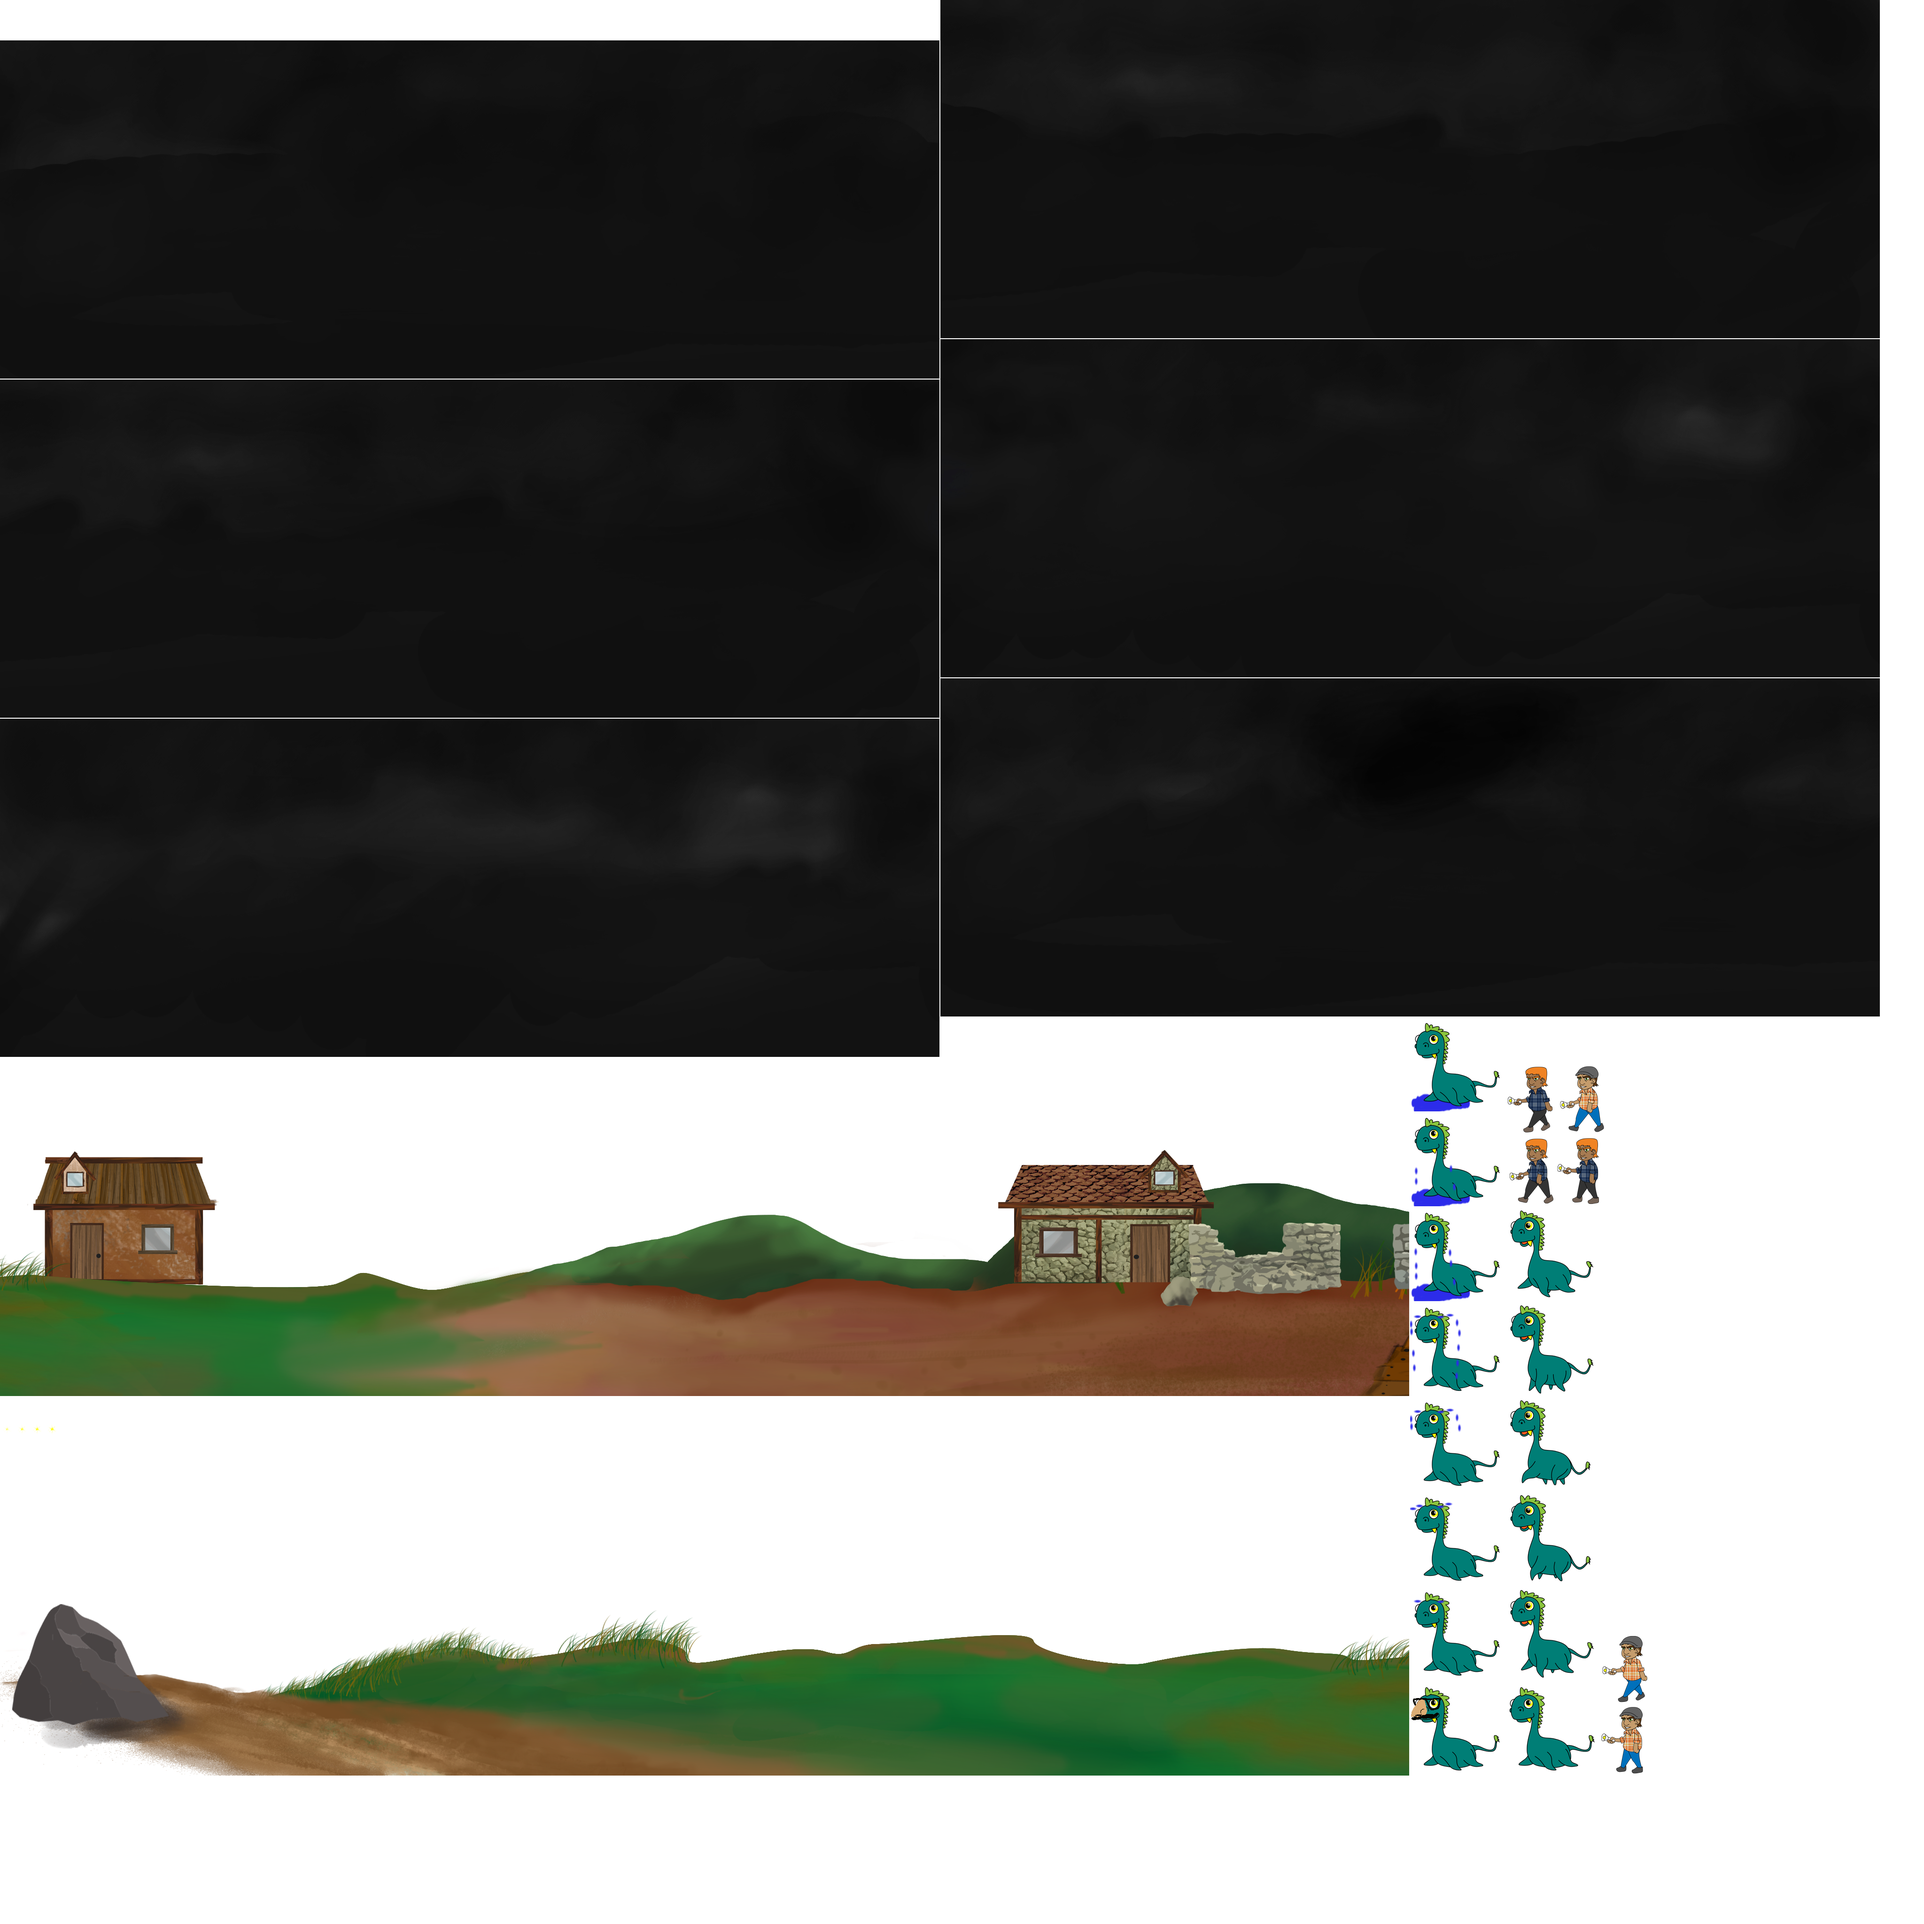
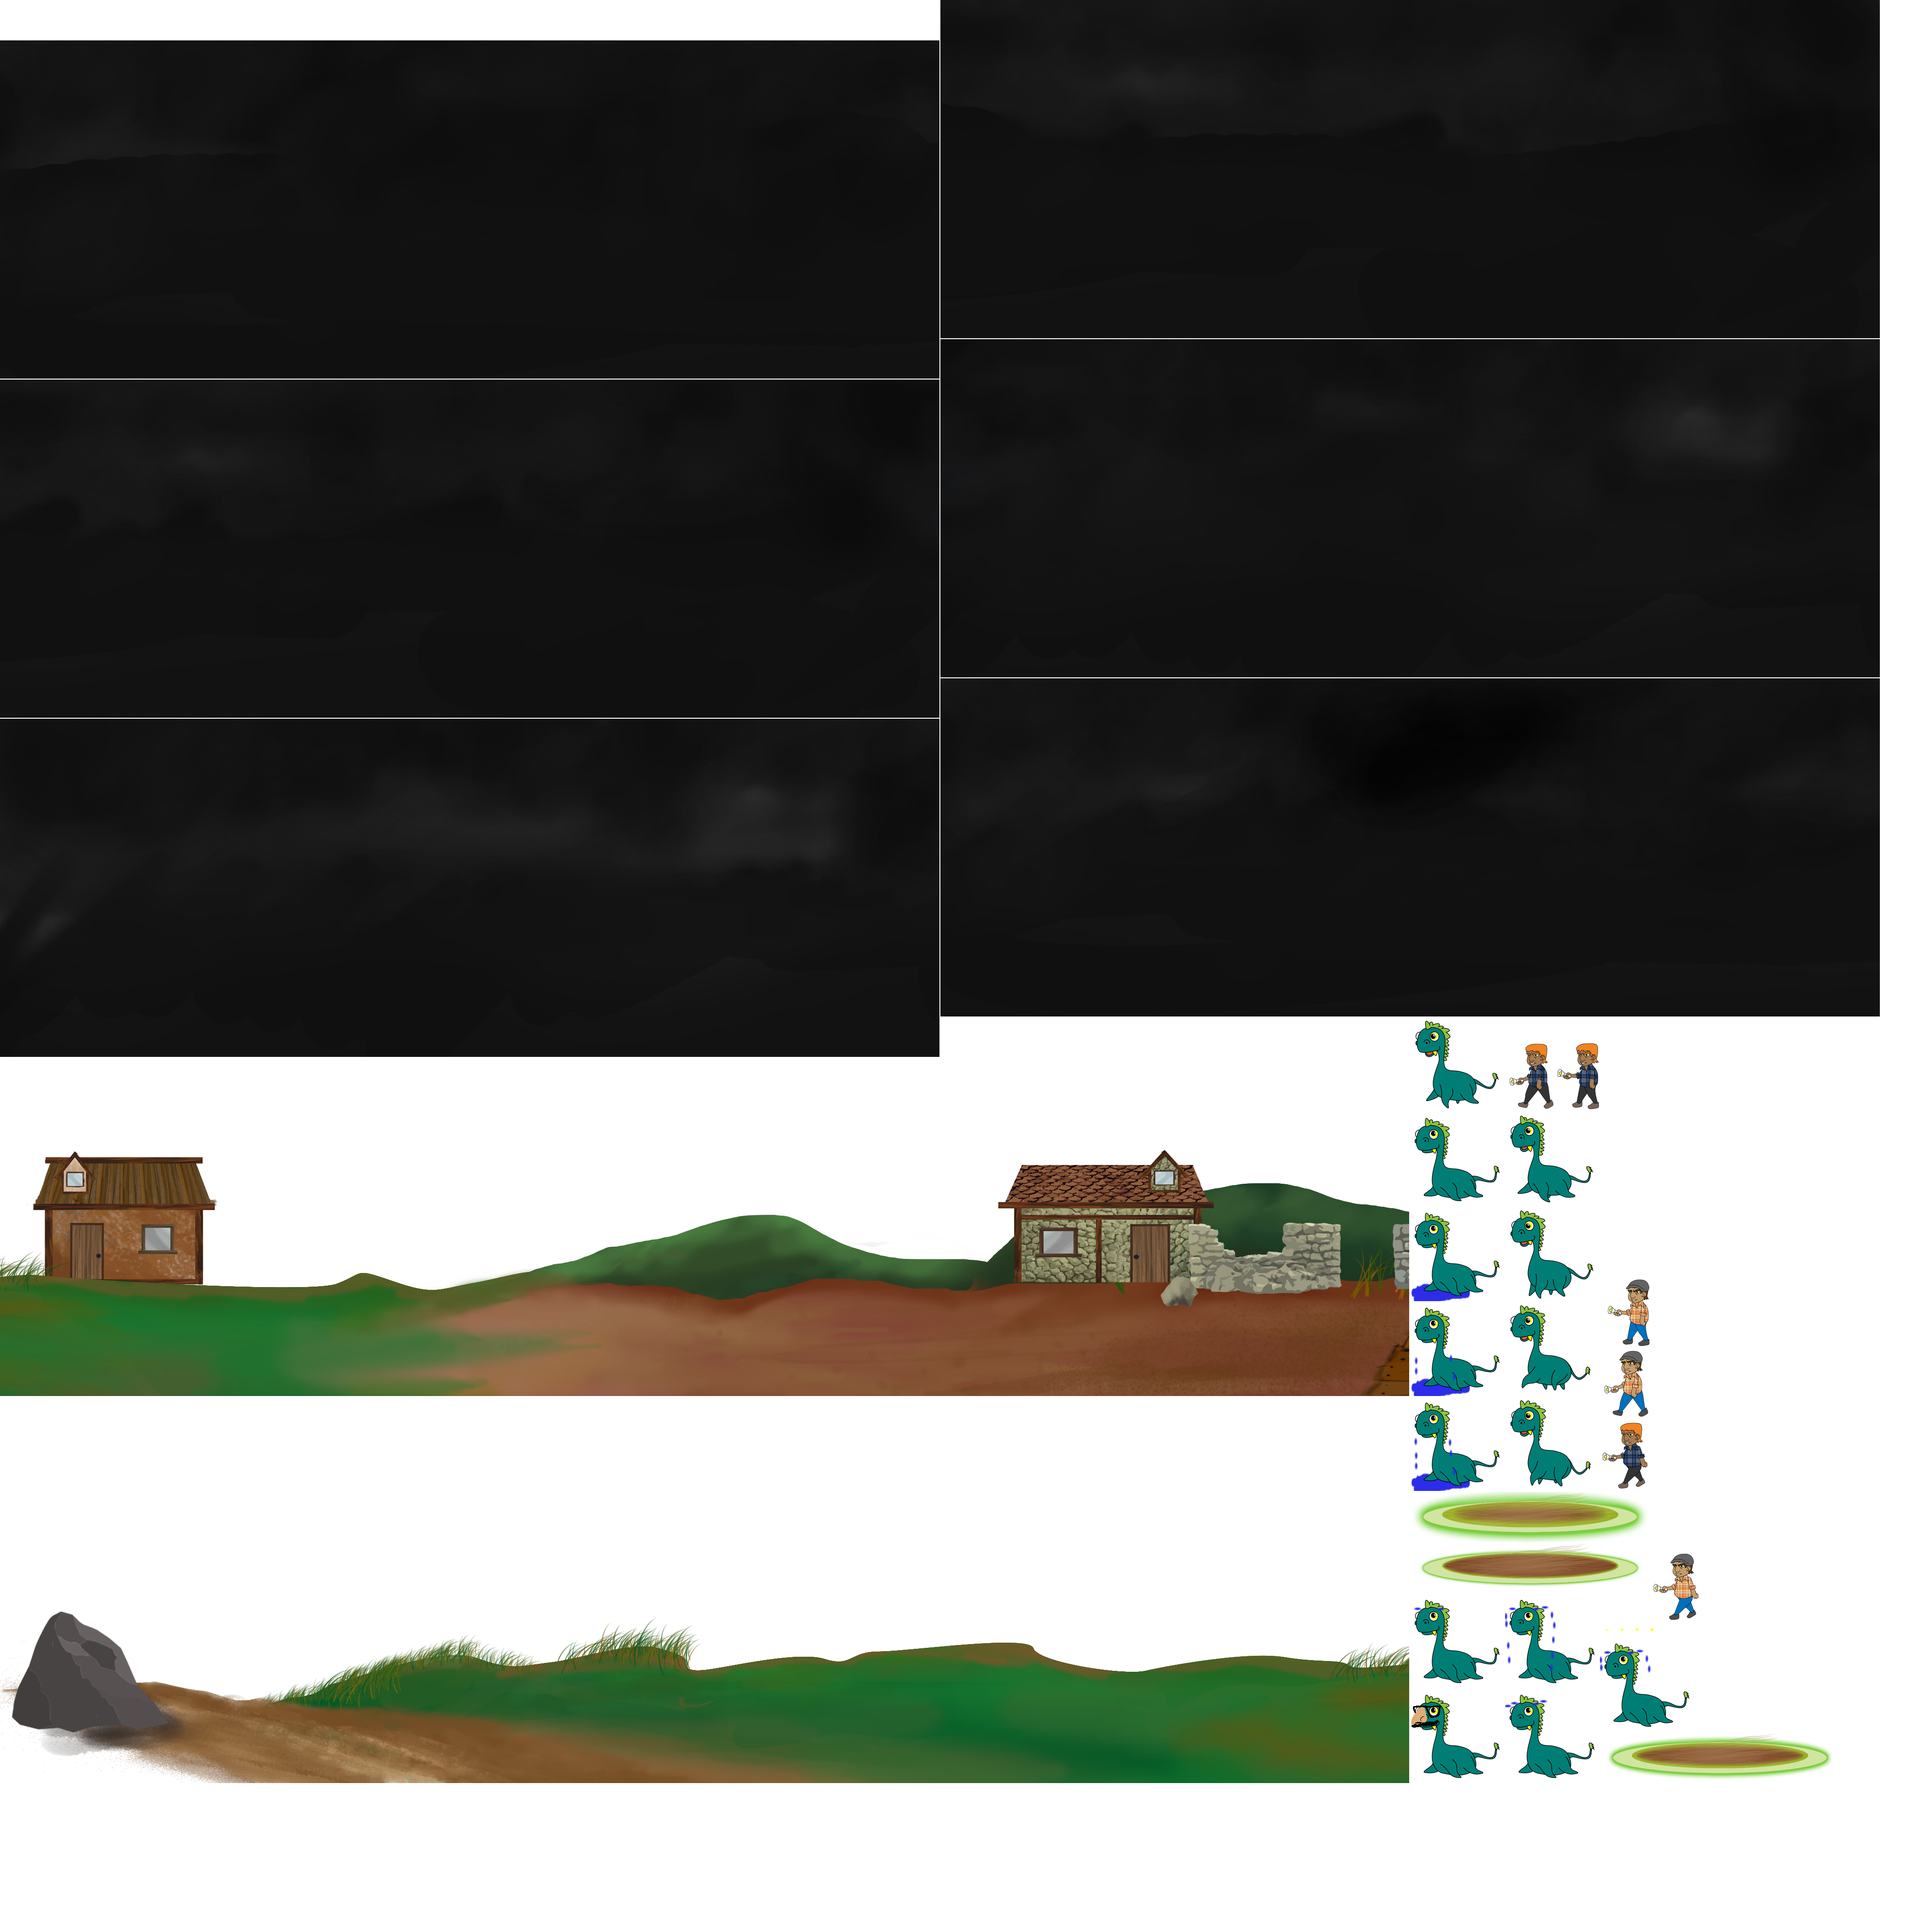
Adding glow and landing pad fix

Changed region(s): [[0.0, 0.6562, 0.9688, 0.9375], [0.7188, 0.5312, 0.8438, 0.625], [0.7812, 0.6562, 0.8125, 0.6875]]

diff --git a/core/src/com/pineapplepiranha/games/scene2d/stage/StealthNessieStage.java b/core/src/com/pineapplepiranha/games/scene2d/stage/StealthNessieStage.java
@@ -47,10 +47,7 @@ public class StealthNessieStage extends BaseStage {
     private static float MIN_Y = 1f;
     private static float MAX_Y = ViewportUtil.VP_HEIGHT/3;
     private static float CAMERA_TRIGGER = ViewportUtil.VP_WIDTH/2;
-    private static float MAX_COVER = 20;
-    private static float MAX_PATROLS = 5;
     private static float MAX_DISGUISE = 3;
-    private static int NO_TREES_ZONE = 1400;
     private static float MOON_PARALLAX_RATIO = 1f/1.02f;
     private static float DISTANT_PARALLAX_RATIO = 1f/2.5f;
     private static float FAR_PARALLAX_RATIO = 1f/5f;
@@ -74,7 +71,7 @@ public class StealthNessieStage extends BaseStage {
         nearParallaxPos = new Vector2(600f, 130f);
         initialMoonPos = new Vector2(ViewportUtil.VP_WIDTH/2, (ViewportUtil.VP_HEIGHT/4)*3);
         powerupsPos = new Vector2((ViewportUtil.VP_WIDTH/2) - (ICON_SIZE*3/2), ViewportUtil.VP_HEIGHT - (ICON_SIZE*1.5f));
-        pickupPointPos = new Vector2(11600, 0f);
+        pickupPointPos = new Vector2(11000  , 0f);
     }
 
     //Actor Groups
@@ -101,7 +98,7 @@ public class StealthNessieStage extends BaseStage {
 
 
     public GenericActor moon;
-    public GenericActor landingPad;
+    public AnimatedActor landingPad;
     public GenericActor endScreen;
     public GenericActor grass;
     public Parallax distantParallax;
@@ -164,7 +161,8 @@ public class StealthNessieStage extends BaseStage {
         waves.setZIndex(depthInitialIndex++);
 
         //TextureRegion landingPadRegion = new TextureRegion(am.get(AssetsUtil.MOON, AssetsUtil.TEXTURE));
-        landingPad = new GenericActor(pickupPointPos.x, pickupPointPos.y, 600f, 400f, null, Color.GREEN);
+        Animation glowingAnimation = new Animation(STAR_TWINKLE_RATE, atlas.findRegions("bg/Glow"));
+        landingPad = new AnimatedActor(pickupPointPos.x, pickupPointPos.y, 800f, 167f, glowingAnimation, 0f);
         addActor(landingPad);
         landingPad.setZIndex(depthInitialIndex++);
 
@@ -371,23 +369,25 @@ public class StealthNessieStage extends BaseStage {
         this.addListener(new InputListener(){
             @Override
             public boolean keyDown(InputEvent event, int keycode) {
-                if(Input.Keys.RIGHT == keycode || Input.Keys.D == keycode){
-                    player.setXVelocity(player.speed);
-                }else if(Input.Keys.LEFT == keycode || Input.Keys.A == keycode){
-                    player.setXVelocity(-player.speed);
-                }
+                if(!isComplete){
+                    if(Input.Keys.RIGHT == keycode || Input.Keys.D == keycode){
+                        player.setXVelocity(player.speed);
+                    }else if(Input.Keys.LEFT == keycode || Input.Keys.A == keycode){
+                        player.setXVelocity(-player.speed);
+                    }
 
-                if(Input.Keys.UP == keycode || Input.Keys.W == keycode){
-                    player.setYVelocity(player.speed);
-                }else if(Input.Keys.DOWN == keycode || Input.Keys.S == keycode){
-                    player.setYVelocity(-player.speed);
-                }
+                    if(Input.Keys.UP == keycode || Input.Keys.W == keycode){
+                        player.setYVelocity(player.speed);
+                    }else if(Input.Keys.DOWN == keycode || Input.Keys.S == keycode){
+                        player.setYVelocity(-player.speed);
+                    }
 
-                if(Input.Keys.SHIFT_LEFT == keycode || Input.Keys.SHIFT_RIGHT == keycode){
-                    player.speed = player.speed*2f;
-                    player.setXVelocity(player.velocity.x*2f);
-                    player.setYVelocity(player.velocity.y*2f);
-                    player.animation.setFrameDuration(player.animation.getFrameDuration()/2f);
+                    if(Input.Keys.SHIFT_LEFT == keycode || Input.Keys.SHIFT_RIGHT == keycode){
+                        player.speed = player.speed*2f;
+                        player.setXVelocity(player.velocity.x*2f);
+                        player.setYVelocity(player.velocity.y*2f);
+                        player.animation.setFrameDuration(player.animation.getFrameDuration()/2f);
+                    }
                 }
 
 
@@ -407,18 +407,19 @@ public class StealthNessieStage extends BaseStage {
 
             @Override
             public boolean keyUp(InputEvent event, int keycode) {
-                if((Input.Keys.RIGHT == keycode || Input.Keys.D == keycode) && !Gdx.input.isKeyPressed(Input.Keys.LEFT)){
-                    player.setXVelocity(0);
-                }else if((Input.Keys.LEFT == keycode || Input.Keys.A == keycode) && !Gdx.input.isKeyPressed(Input.Keys.RIGHT)){
-                    player.setXVelocity(0);
-                }
+                if(!isComplete){
+                    if((Input.Keys.RIGHT == keycode || Input.Keys.D == keycode) && !Gdx.input.isKeyPressed(Input.Keys.LEFT)){
+                        player.setXVelocity(0);
+                    }else if((Input.Keys.LEFT == keycode || Input.Keys.A == keycode) && !Gdx.input.isKeyPressed(Input.Keys.RIGHT)){
+                        player.setXVelocity(0);
+                    }
 
-                if((Input.Keys.UP == keycode || Input.Keys.W == keycode) && !Gdx.input.isKeyPressed(Input.Keys.DOWN)){
-                    player.setYVelocity(0);
-                }else if((Input.Keys.DOWN == keycode || Input.Keys.S == keycode) && !Gdx.input.isKeyPressed(Input.Keys.UP)){
-                    player.setYVelocity(0);
+                    if((Input.Keys.UP == keycode || Input.Keys.W == keycode) && !Gdx.input.isKeyPressed(Input.Keys.DOWN)){
+                        player.setYVelocity(0);
+                    }else if((Input.Keys.DOWN == keycode || Input.Keys.S == keycode) && !Gdx.input.isKeyPressed(Input.Keys.UP)){
+                        player.setYVelocity(0);
+                    }
                 }
-
                 if(Input.Keys.SHIFT_LEFT == keycode || Input.Keys.SHIFT_RIGHT == keycode){
                     player.speed = player.speed/2f;
                     player.setXVelocity(player.velocity.x/2f);
@@ -434,9 +435,10 @@ public class StealthNessieStage extends BaseStage {
     @Override
     public void act(float delta) {
 
-        if(!isComplete && player.collider.overlaps(landingPad.collider) && !player.isFound() && !player.isDisguised){
+        if(!isComplete && landingPad.collider.contains(player.collider) && !player.isFound() && !player.isDisguised){
             alienUp.play();
             player.velocity.y = player.speed*3;
+            player.velocity.x = 0f;
             isComplete = true;
         }else if(isComplete && endScreen == null && player.getY() > 720f){
 
